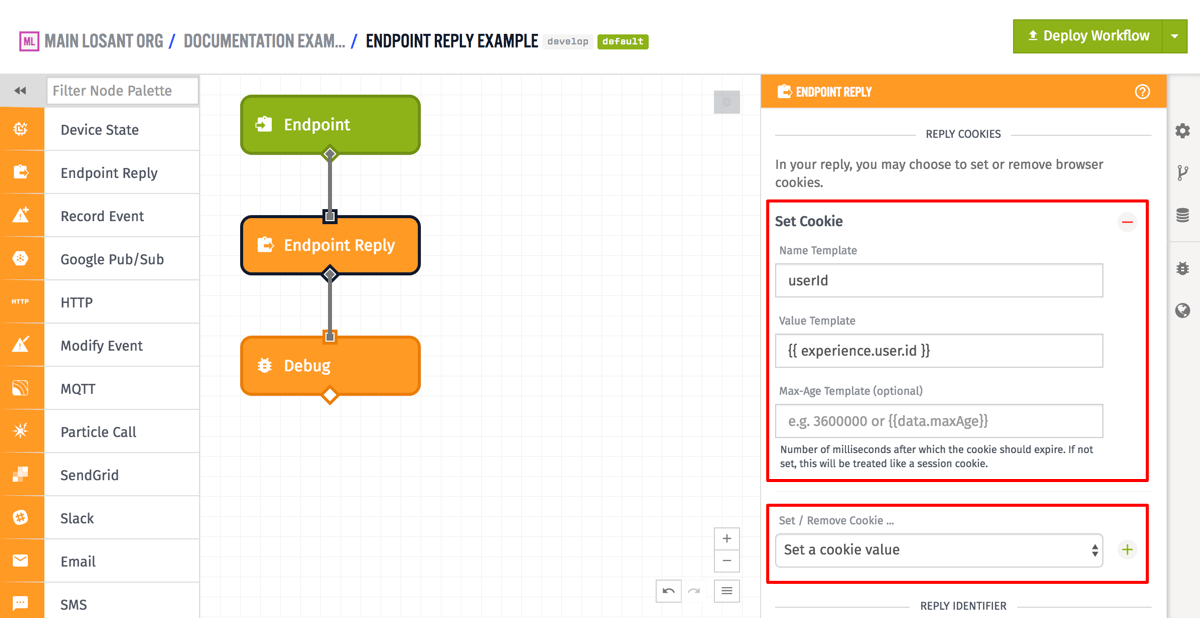
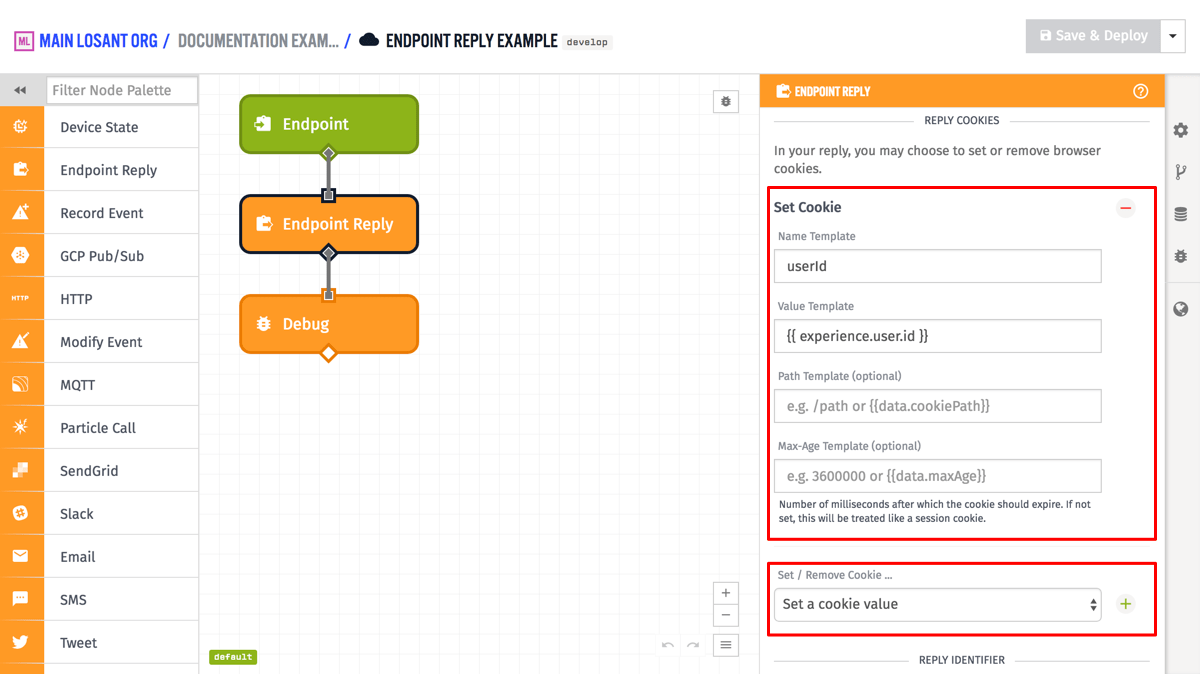
add cookie path docs

Changed region(s): [[0.0, 0.0307, 1.0, 1.0], [0.1542, 0.9531, 0.2158, 1.0]]

diff --git a/docs/workflows/outputs/http-response.md b/docs/workflows/outputs/http-response.md
@@ -39,4 +39,4 @@ CORS related headers will also be added - the headers [Access-Control-Allow-Orig
 
 ![HTTP Response Node Cookie Config](/images/workflows/outputs/http-response-node-cookie-config.png "HTTP Response Node Cookie Config")
 
-Cookies can either be removed or set on the reply. In the case of removal, all that is needed is the name of the cookie (which is [templatable](/workflows/accessing-payload-data/#string-templates)). When setting the cookie, both a cookie name and a value for the cookie are required, and optionally you can provide the amount of time until the cookie expires (in milliseconds). If you do not provide an amount of time, the cookie will be treated as a "session cookie", which means it will last until the user's browser is closed. All three of these fields are [templatable](/workflows/accessing-payload-data/#string-templates), so they can use values off of the current workflow payload.
+Cookies can either be removed or set on the reply. In the case of removal, all that is needed is the name of the cookie (which is [templatable](/workflows/accessing-payload-data/#string-templates)). When setting the cookie, both a cookie name and a value for the cookie are required, and optionally you can provide the amount of time until the cookie expires (in milliseconds). If you do not provide an amount of time, the cookie will be treated as a "session cookie", which means it will last until the user's browser is closed. As of Edge Agent version 1.2.0, you can also provide an optional path for the cookie. All four of these fields are [templatable](/workflows/accessing-payload-data/#string-templates), so they can use values off of the current workflow payload.

diff --git a/docs/workflows/outputs/endpoint-reply.md b/docs/workflows/outputs/endpoint-reply.md
@@ -64,7 +64,7 @@ CORS related headers will also be added, depending on if [Default CORS](/experie
 
 ![Endpoint Reply Node Cookie Config](/images/workflows/outputs/endpoint-reply-node-cookie-config.png "Endpoint Reply Node Cookie Config")
 
-Cookies can either be removed or set on the reply. In the case of removal, all that is needed is the name of the cookie (which is [templatable](/workflows/accessing-payload-data/#string-templates)). When setting the cookie, both a cookie name and a value for the cookie are required, and optionally you can provide the amount of time until the cookie expires (in milliseconds). If you do not provide an amount of time, the cookie will be treated as a "session cookie", which means it will last until the user's browser is closed. All three of these fields are [templatable](/workflows/accessing-payload-data/#string-templates), so they can use values off of the current workflow payload.
+Cookies can either be removed or set on the reply. In the case of removal, all that is needed is the name of the cookie (which is [templatable](/workflows/accessing-payload-data/#string-templates)). When setting the cookie, both a cookie name and a value for the cookie are required, and optionally you can provide path for the cookie as well as the amount of time until the cookie expires (in milliseconds). If you do not provide an amount of time, the cookie will be treated as a "session cookie", which means it will last until the user's browser is closed. All four of these fields are [templatable](/workflows/accessing-payload-data/#string-templates), so they can use values off of the current workflow payload.
 
 ## Advanced Options
 
